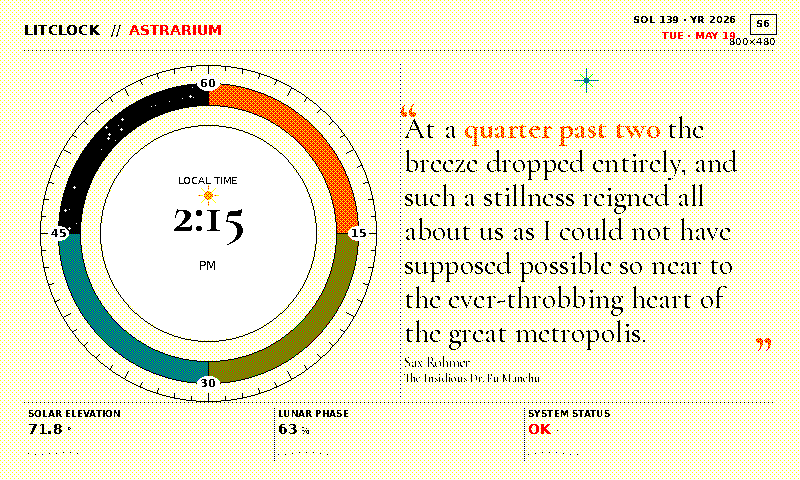
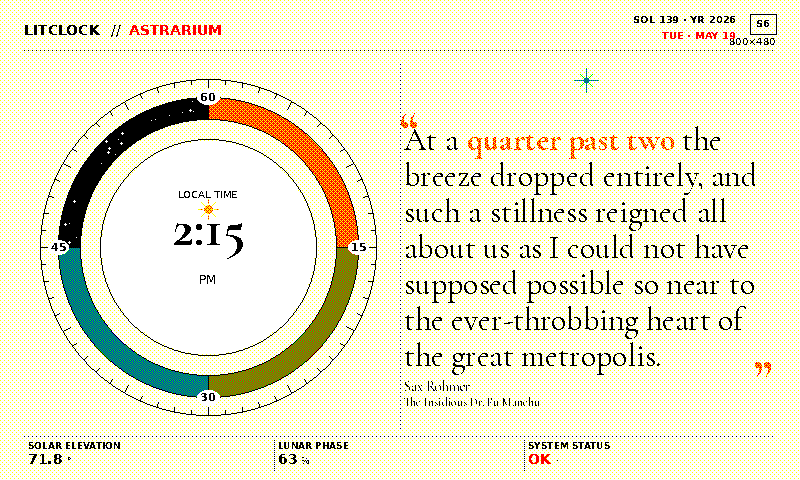
Compress astrarium's datum strip to a single-row band
Drop the decorative sparkline sub-row that filled the strip's lower
half — it was visual furniture, not a real readout — and tighten the
label/value spacing so the strip occupies a 36-px band (label on top,
bold value + unit beneath) instead of the previous 64-px block. Frees
~32 px of vertical space that the dial and quote panel reclaim
(dial_cy and panel_bottom both move down accordingly), so the dial
fills its half-page zone more confidently and longer quotes get more
room before fit_quote has to shrink the font.

diff --git a/render_quote.py b/render_quote.py
@@ -9095,8 +9095,8 @@ def _astrarium_paint_datum_strip(
     BLACK = SPECTRA6["black"]
     RED = SPECTRA6["red"]
 
-    strip_top = height - 78
-    strip_bottom = height - 14
+    strip_top = height - 44
+    strip_bottom = height - 8
     # Top dashed rule (same dotted style as the header).
     for x in range(24, width - 24, 4):
         draw.point((x, strip_top), fill=BLACK)
@@ -9136,17 +9136,17 @@ def _astrarium_paint_datum_strip(
     panel_w = inner_width // len(panels)
     for i, (label, value, unit, value_color) in enumerate(panels):
         px0 = inner_left + i * panel_w
-        px1 = inner_left + (i + 1) * panel_w if i < len(panels) - 1 else inner_right
-        # Vertical separator.
+        # Vertical separator between panels.
         if i > 0:
-            for y in range(strip_top + 6, strip_bottom - 4, 2):
+            for y in range(strip_top + 4, strip_bottom, 2):
                 draw.point((px0, y), fill=BLACK)
-        # Label.
-        lbl_y = strip_top + 6
+        # Label on top.
+        lbl_y = strip_top + 4
         draw.text((px0 + 4, lbl_y), label, font=label_font, fill=BLACK)
-        # Value (bold) + unit beside it.
+        # Value (bold) + unit beside it, on a tighter baseline so the
+        # whole strip fits inside its 36-px band without a sparkline row.
         val_bbox = draw.textbbox((0, 0), value, font=value_font)
-        val_y = strip_top + 22
+        val_y = strip_top + 18
         draw.text((px0 + 4 - val_bbox[0], val_y - val_bbox[1]), value, font=value_font, fill=value_color)
         val_w = val_bbox[2] - val_bbox[0]
         unit_bbox = draw.textbbox((0, 0), unit, font=unit_font)
@@ -9154,15 +9154,6 @@ def _astrarium_paint_datum_strip(
             (px0 + 4 + val_w + 4 - unit_bbox[0], val_y + (val_bbox[3] - val_bbox[1]) - (unit_bbox[3] - unit_bbox[1]) - unit_bbox[1]),
             unit, font=unit_font, fill=BLACK,
         )
-        # Tiny inline glyph for variety — a few dots in the panel's
-        # bottom area suggesting a sparkline/indicator.
-        sparkline_y = strip_top + 52
-        for j in range(8):
-            sx = px0 + 4 + j * 7
-            if sx >= px1 - 8:
-                break
-            offset = int(2 * math.sin(j * 0.9 + i)) - 1
-            draw.point((sx, sparkline_y + offset), fill=BLACK)
 
 
 def render_astrarium_frame(time_str: str, quote_row: dict, width: int, height: int) -> Image.Image:
@@ -9204,23 +9195,24 @@ def render_astrarium_frame(time_str: str, quote_row: dict, width: int, height: i
 
     # Dial centred in the left half. Use proportional positioning so
     # non-standard canvas sizes (thumbnails) still render the dial in
-    # the correct quadrant.
+    # the correct quadrant. The 50-px reserve below covers the datum
+    # strip (height − 44, plus a small breathing gap).
     dial_zone_w = int(width * 0.5)
     dial_cx = dial_zone_w // 2 + 8
-    dial_cy = 64 + (height - 64 - 78) // 2
+    dial_cy = 64 + (height - 64 - 50) // 2
     _astrarium_paint_dial(image, draw, dial_cx, dial_cy, time_str)
 
     # Quote panel in the right half.
     panel_left = int(width * 0.5) - 4
     panel_right = width - 24
     panel_top = 62
-    panel_bottom = height - 86
+    panel_bottom = height - 52
     _astrarium_paint_quote_panel(image, draw, quote_row, panel_left, panel_right, panel_top, panel_bottom)
 
     # Vertical hairline divider between the dial and the quote panel
     # (a faint dotted line, similar to the dashed header rule).
     div_x = int(width * 0.5)
-    for y in range(64, height - 82, 4):
+    for y in range(64, height - 48, 4):
         draw.point((div_x, y), fill=SPECTRA6["black"])
 
     # Bottom datum strip.
